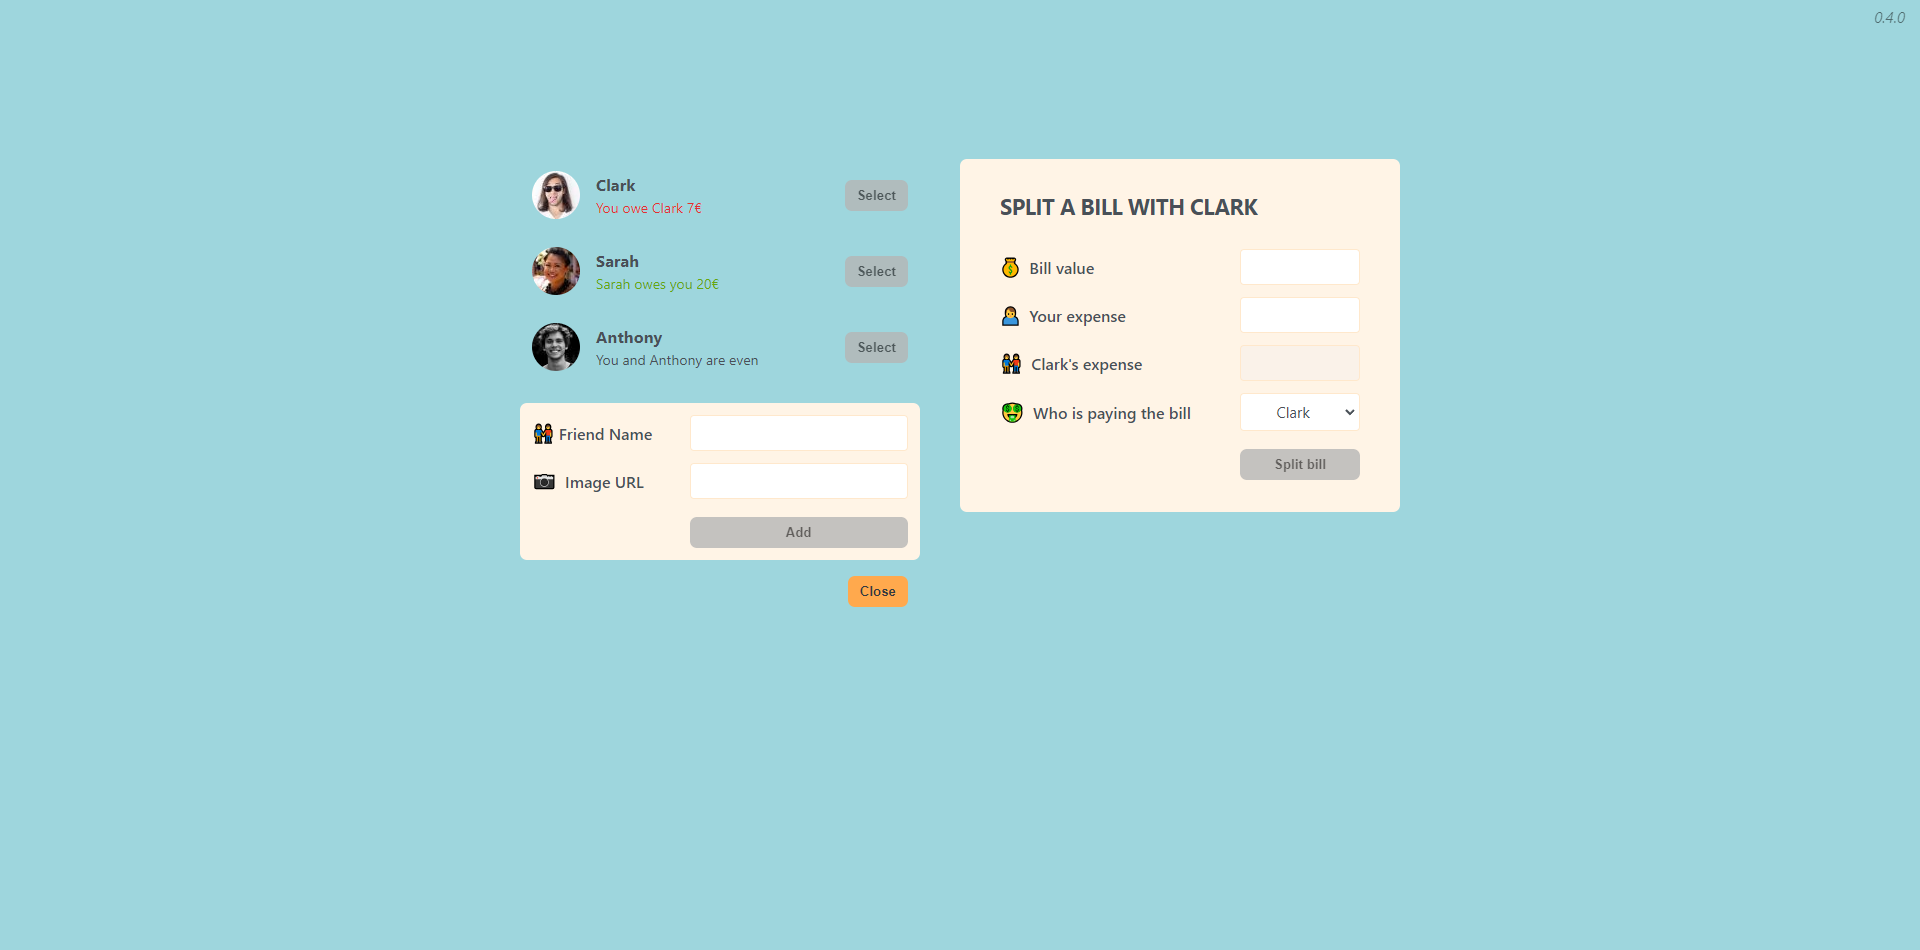
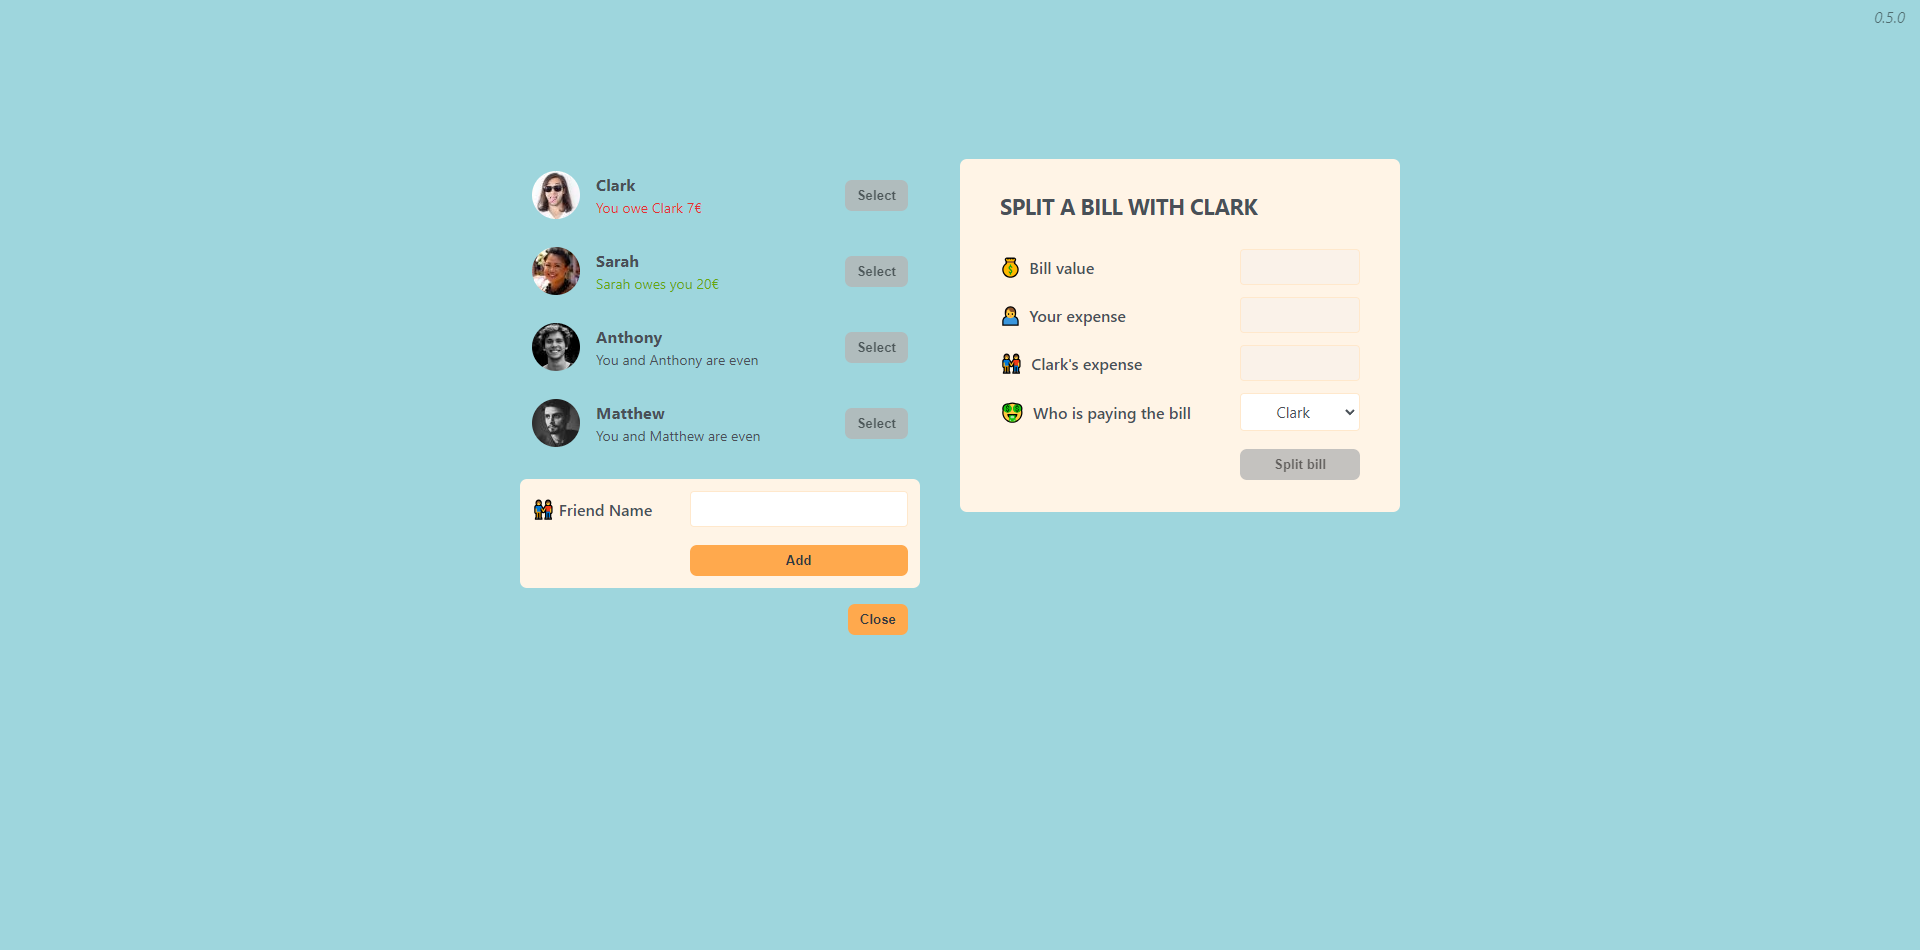
FAIR SHARE 0.5.0
Add Feature Add Friends

Changed region(s): [[0.25, 0.3968, 0.5, 0.6716]]

diff --git a/src/components/App.js b/src/components/App.js
@@ -3,17 +3,23 @@ import FriendsData from "../data/friendsData.json";
 import VersionWatermark from "./VersionWatermark";
 
 export default function App() {
-  const [showAddFriend, setShowAddFriend] = useState(false);
+  const [friends, setFriends] = useState(FriendsData.friends);
+  const [showAddFriend, setShowAddFriend] = useState(true);
 
   function handleShowAddFriend() {
     setShowAddFriend((showAddFriend) => !showAddFriend);
   }
 
+  function handleAddFriend(friend) {
+    setFriends((friends) => [...friends, friend]);
+    setShowAddFriend(false);
+  }
+
   return (
     <div className='app'>
       <div className='sidebar'>
-        <FriendList />
-        {showAddFriend && <FormAddFriend />}
+        <FriendList friends={friends} />
+        {showAddFriend && <FormAddFriend onAddFriend={handleAddFriend} />}
         <Button onClick={handleShowAddFriend}>{showAddFriend ? "Close" : "Add friend"}</Button>
       </div>
       <FormSplitBill />
@@ -22,9 +28,7 @@ export default function App() {
   )
 }
 
-function FriendList() {
-  const friends = FriendsData.friends;
-
+function FriendList({ friends }) {
   return (
     <ul>{friends.map(friend => <Friend key={friend.id} friend={friend} />)}</ul >
   )
@@ -61,21 +65,39 @@ function Button({ children, onClick, disabled }) {
   )
 }
 
-function FormAddFriend() {
+function FormAddFriend({ onAddFriend }) {
+  const [name, setName] = useState("");
+
+  function handleSubmit(e) {
+    e.preventDefault();
+
+    if (!name) return;
+
+    const id = crypto.randomUUID();
+    const newFriendName = name.substring(0, 1).toUpperCase() + name.substring(1).toLowerCase();
+    const newFriend = {
+      id,
+      name: newFriendName,
+      image: `https://i.pravatar.cc/48?${id}`,
+      balance: 0,
+    };
+
+    onAddFriend(newFriend);
+  }
+
   return (
-    <form className="form-add-friend">
-      <InputText>👬Friend Name</InputText>
-      <InputText>📷 Image URL</InputText>
-      <Button disabled={true}>Add</Button>
-    </form>
+    <form className="form-add-friend" onSubmit={handleSubmit}>
+      <InputText value={name} setValue={setName}>👬Friend Name</InputText>
+      <Button>Add</Button>
+    </form >
   )
 }
 
-function InputText({ children, disabled }) {
+function InputText({ children, value, setValue, disabled }) {
   return (
     <>
       <label>{children}</label>
-      <input type="text" disabled={disabled} />
+      <input type="text" value={value} onChange={(e) => setValue(e.target.value)} disabled={disabled} />
     </>
   )
 }
@@ -86,8 +108,8 @@ function FormSplitBill() {
   return (
     <form className="form-split-bill">
       <h2>Split a bill with {selectedFriend}</h2>
-      <InputText>💰 Bill value</InputText>
-      <InputText>🙍♂ Your expense</InputText>
+      <InputText disabled="disabled">💰 Bill value</InputText>
+      <InputText disabled="disabled">🙍♂ Your expense</InputText>
       <InputText disabled="disabled">👬 {selectedFriend}'s expense</InputText>
       <InputSelect selectedFriend={selectedFriend} />
       <Button disabled={true}>Split bill</Button>

diff --git a/README.md b/README.md
@@ -10,7 +10,7 @@
 
 - **STACK :**
 
-  - **Fair Share** : `0.4.0`
+  - **Fair Share** : `0.5.0`
   - **React** : `18.3.1`
   - **React Dom** : `18.3.1`
 
